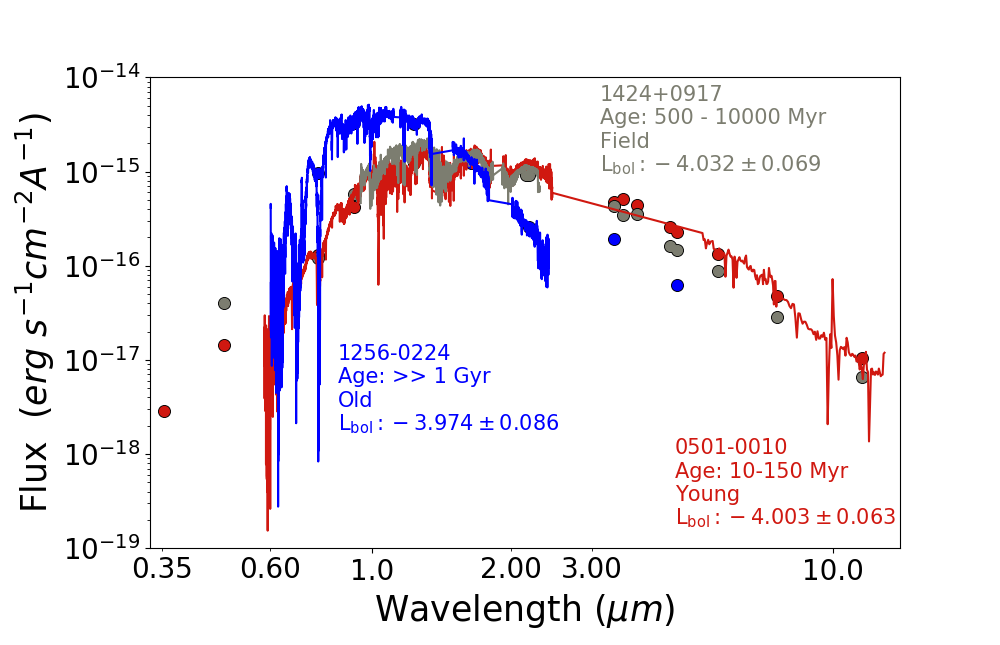
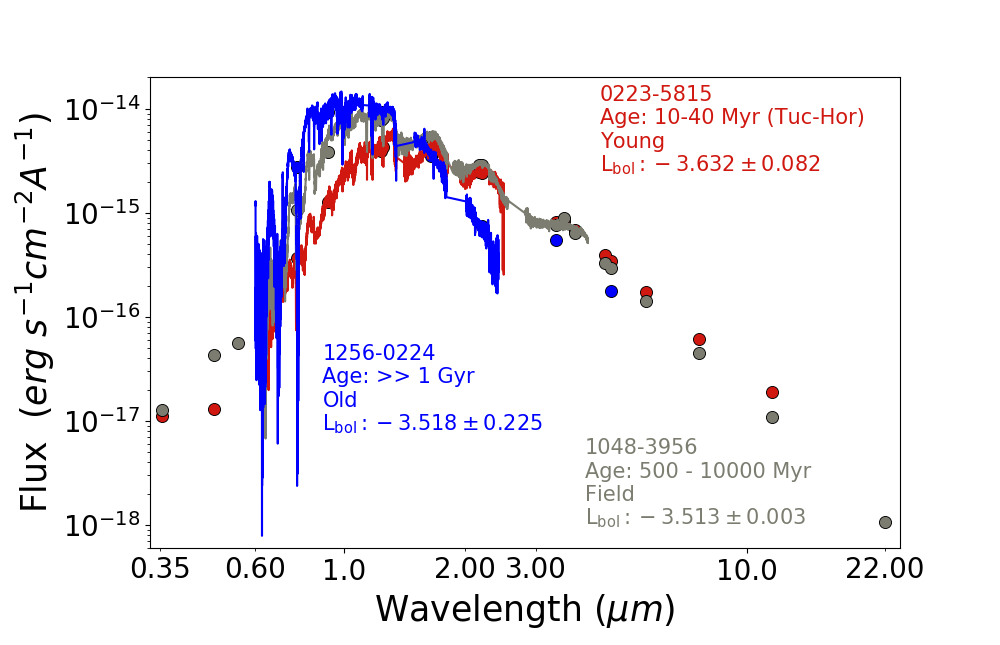
New comparison SEDs with updated teff and lbol

diff --git a/compariosn_Lbol.py b/compariosn_Lbol.py
@@ -7,16 +7,16 @@ from matplotlib.ticker import ScalarFormatter
 # ------------------------------------------------------------------------------------
 # Read  all in as pandas Dataframes
 
-df_1256 = pd.read_csv('Data/FIRE_rereduced1256-0224 (L3.5sd) SED.txt', sep=" ", comment='#', header=None,
+df_1256 = pd.read_csv('Data/correctpi1256-0224 (L3.5sd) SED.txt', sep=" ", comment='#', header=None,
                       names=["w", "f", "err"])
-df_1256_phot = pd.read_csv('Data/FIRE_rereduced1256-0224 (L3.5sd) phot.txt', sep=" ", header=1, names=["w", "f", "err"])
+df_1256_phot = pd.read_csv('Data/correctpi1256-0224 (L3.5sd) phot.txt', sep=" ", header=1, names=["w", "f", "err"])
 
 # -------------- Comparison objects of the same Lbol ----------------------------------
-df_young = pd.read_csv('Data/0501-0010 (L4gamma) SED.txt', sep=" ", comment='#', header=None, names=["w", "f", "err"])
-df_young_phot = pd.read_csv('Data/0501-0010 (L4gamma) phot.txt', sep=" ", comment='#', header=None,
+df_young = pd.read_csv('Data/lbol0223-5815 (L0gamma) SED.txt', sep=" ", comment='#', header=None, names=["w", "f", "err"])
+df_young_phot = pd.read_csv('Data/lbol0223-5815 (L0gamma) phot.txt', sep=" ", comment='#', header=None,
                             names=["w", "f", "err"])
-df_field = pd.read_csv('Data/lbol1424+0917 (L4) SED.txt', sep=" ", comment='#', header=None, names=["w", "f", "err"])
-df_field_phot = pd.read_csv('Data/lbol1424+0917 (L4) phot.txt', sep=" ", comment='#', header=None,
+df_field = pd.read_csv('Data/lbol1048-3956 (M9) SED.txt', sep=" ", comment='#', header=None, names=["w", "f", "err"])
+df_field_phot = pd.read_csv('Data/lbol1048-3956 (M9) phot.txt', sep=" ", comment='#', header=None,
                             names=["w", "f", "err"])
 
 
@@ -41,11 +41,11 @@ ax1.scatter(df_1256_phot['w'], df_1256_phot['f'], c='k', s=70)
 ax1.scatter(df_1256_phot['w'], df_1256_phot['f'], c='blue', s=50)
 
 # ----- Set axes limits, reformat ticks -----------
-plt.xlim([0.33, 14])
-plt.ylim([10**(-19), 10**(-14)])
+plt.xlim([0.33, 24])
+plt.ylim([6*10**(-19),2*10**(-14)])
 ax1.xaxis.set_major_formatter(ScalarFormatter())
 ax1.xaxis.set_minor_formatter(ScalarFormatter())
-ax1.xaxis.set_minor_locator(plt.FixedLocator([0.35, 0.6, 2, 3]))
+ax1.xaxis.set_minor_locator(plt.FixedLocator([0.35, 0.6, 2, 3, 22]))
 ax1.tick_params(axis='x', which='major', labelsize=20)
 ax1.tick_params(axis='x', which='minor', labelsize=20)
 plt.yticks(fontsize=20)
@@ -56,21 +56,21 @@ plt.ylabel('Flux  ($erg\ s^{-1} cm^{-2} A^{-1}$)', fontsize=25)
 
 # ------ Labeling Spectra and Photometric points --------
 # Old
-ax1.text(0.25, 0.4, '1256-0224', transform=ax1.transAxes, color='blue', fontsize=15)
-ax1.text(0.25, 0.35, 'Age: >> 1 Gyr', transform=ax1.transAxes, color='blue', fontsize=15)
-ax1.text(0.25, 0.3, 'Old', transform=ax1.transAxes, color='blue', fontsize=15)
-ax1.text(0.25, 0.25, 'L$_\mathrm{bol}:-3.974\pm 0.086$', transform=ax1.transAxes, color='blue', fontsize=15)
+ax1.text(0.23, 0.4, '1256-0224', transform=ax1.transAxes, color='blue', fontsize=15)
+ax1.text(0.23, 0.35, 'Age: >> 1 Gyr', transform=ax1.transAxes, color='blue', fontsize=15)
+ax1.text(0.23, 0.3, 'Old', transform=ax1.transAxes, color='blue', fontsize=15)
+ax1.text(0.23, 0.25, 'L$_\mathrm{bol}:-3.518\pm 0.225$', transform=ax1.transAxes, color='blue', fontsize=15)
 
 # Field
-ax1.text(0.6, 0.95, '1424+0917', transform=ax1.transAxes, color='#7C7D70', fontsize=15)
-ax1.text(0.6, 0.9, 'Age: 500 - 10000 Myr ', transform=ax1.transAxes, color='#7C7D70', fontsize=15)
-ax1.text(0.6, 0.85, 'Field', transform=ax1.transAxes, color='#7C7D70', fontsize=15)
-ax1.text(0.6, 0.8, 'L$_\mathrm{bol}:-4.032\pm0.069 $', transform=ax1.transAxes, color='#7C7D70', fontsize=15)
+ax1.text(0.58, 0.2, '1048-3956', transform=ax1.transAxes, color='#7C7D70', fontsize=15)
+ax1.text(0.58, 0.15, 'Age: 500 - 10000 Myr ', transform=ax1.transAxes, color='#7C7D70', fontsize=15)
+ax1.text(0.58, 0.1, 'Field', transform=ax1.transAxes, color='#7C7D70', fontsize=15)
+ax1.text(0.58, 0.05, 'L$_\mathrm{bol}:-3.513\pm0.003 $', transform=ax1.transAxes, color='#7C7D70', fontsize=15)
 
 # Young
-ax1.text(0.7, 0.2, '0501-0010', transform=ax1.transAxes, color='#D01810', fontsize=15)
-ax1.text(0.7, 0.15, 'Age: 10-150 Myr', transform=ax1.transAxes, color='#D01810', fontsize=15)
-ax1.text(0.7, 0.1, 'Young', transform=ax1.transAxes, color='#D01810', fontsize=15)
-ax1.text(0.7, 0.05, 'L$_\mathrm{bol}:-4.003\pm0.063 $', transform=ax1.transAxes, color='#D01810', fontsize=15)
+ax1.text(0.6, 0.95, '0223-5815', transform=ax1.transAxes, color='#D01810', fontsize=15)
+ax1.text(0.6, 0.9, 'Age: 10-40 Myr (Tuc-Hor)', transform=ax1.transAxes, color='#D01810', fontsize=15)
+ax1.text(0.6, 0.85, 'Young', transform=ax1.transAxes, color='#D01810', fontsize=15)
+ax1.text(0.6, 0.8, 'L$_\mathrm{bol}:-3.632\pm0.082 $', transform=ax1.transAxes, color='#D01810', fontsize=15)
 
 plt.savefig('Plots/comparison_Lbol.png')

diff --git a/comparison_Teff.py b/comparison_Teff.py
@@ -7,17 +7,17 @@ from matplotlib.ticker import ScalarFormatter
 # ------------------------------------------------------------------------------------
 # Read  all in as pandas dataframes
 
-df_1256 = pd.read_csv('Data/FIRE_rereduced1256-0224 (L3.5sd) SED.txt', sep=" ", comment='#', header=None,
+df_1256 = pd.read_csv('Data/correctpi1256-0224 (L3.5sd) SED.txt', sep=" ", comment='#', header=None,
                       names=["w", "f", "err"])
-df_1256_phot = pd.read_csv('Data/FIRE_rereduced1256-0224 (L3.5sd) phot.txt', sep=" ", header=1, names=["w", "f", "err"])
+df_1256_phot = pd.read_csv('Data/correctpi1256-0224 (L3.5sd) phot.txt', sep=" ", header=1, names=["w", "f", "err"])
 
 # -------------- Comparison objects of the same Teff ----------------------------------
-df_young = pd.read_csv('Data/teff0223-5815 (L0gamma) SED.txt', sep=" ", comment='#', header=None,
+df_young = pd.read_csv('Data/teff2000-7523 (M9gamma) SED.txt', sep=" ", comment='#', header=None,
                        names=["w", "f", "err"])
-df_young_phot = pd.read_csv('Data/teff0223-5815 (L0gamma) phot.txt', sep=" ", comment='#', header=None,
+df_young_phot = pd.read_csv('Data/teff2000-7523 (M9gamma) phot.txt', sep=" ", comment='#', header=None,
                             names=["w", "f", "err"])
-df_field = pd.read_csv('Data/0036+1821 (L3.5) SED.txt', sep=" ", comment='#', header=None, names=["w", "f", "err"])
-df_field_phot = pd.read_csv('Data/0036+1821 (L3.5) phot.txt', sep=" ", comment='#', header=None,
+df_field = pd.read_csv('Data/teff0024-0158 (M9.5) SED.txt', sep=" ", comment='#', header=None, names=["w", "f", "err"])
+df_field_phot = pd.read_csv('Data/teff0024-0158 (M9.5) phot.txt', sep=" ", comment='#', header=None,
                             names=["w", "f", "err"])
 
 
@@ -42,11 +42,11 @@ ax1.scatter(df_1256_phot['w'], df_1256_phot['f'], c='k', s=70)
 ax1.scatter(df_1256_phot['w'], df_1256_phot['f'], c='blue', s=50)
 
 # ----- Set axes limits, reformat ticks -----------
-plt.xlim([0.33, 36])
-plt.ylim([6*10**(-20), 1.2*10**(-14)])
+plt.xlim([0.33, 16])
+plt.ylim([6*10**(-19), 4*10**(-14)])
 ax1.xaxis.set_major_formatter(ScalarFormatter())
 ax1.xaxis.set_minor_formatter(ScalarFormatter())
-ax1.xaxis.set_minor_locator(plt.FixedLocator([0.35, 0.6, 2, 3, 34]))
+ax1.xaxis.set_minor_locator(plt.FixedLocator([0.35, 0.6, 2, 3, 16]))
 ax1.tick_params(axis='x', which='major', labelsize=20)
 ax1.tick_params(axis='x', which='minor', labelsize=20)
 plt.yticks(fontsize=20)
@@ -57,21 +57,21 @@ plt.ylabel('Flux  ($erg\ s^{-1} cm^{-2} A^{-1}$)', fontsize=25)
 
 # ------ Labeling Spectra and Photometric points --------
 # Old
-ax1.text(0.2, 0.4, '1256-0224', transform=ax1.transAxes, color='blue', fontsize=15)
-ax1.text(0.2, 0.35, 'Age: >> 1 Gyr', transform=ax1.transAxes, color='blue', fontsize=15)
-ax1.text(0.2, 0.3, 'Old', transform=ax1.transAxes, color='blue', fontsize=15)
-ax1.text(0.2, 0.25, 'T$_\mathrm{eff}:1887\pm 95$ K', transform=ax1.transAxes, color='blue', fontsize=15)
+ax1.text(0.23, 0.4, '1256-0224', transform=ax1.transAxes, color='blue', fontsize=15)
+ax1.text(0.23, 0.35, 'Age: >> 1 Gyr', transform=ax1.transAxes, color='blue', fontsize=15)
+ax1.text(0.23, 0.3, 'Old', transform=ax1.transAxes, color='blue', fontsize=15)
+ax1.text(0.23, 0.25, 'T$_\mathrm{eff}:2344\pm 314$ K', transform=ax1.transAxes, color='blue', fontsize=15)
 
 # Field
-ax1.text(0.54, 0.2, '0036+1821', transform=ax1.transAxes, color='#7C7D70', fontsize=15)
-ax1.text(0.54, 0.15, 'Age: 500 - 10000 Myr ', transform=ax1.transAxes, color='#7C7D70', fontsize=15)
-ax1.text(0.54, 0.1, 'Field', transform=ax1.transAxes, color='#7C7D70', fontsize=15)
-ax1.text(0.54, 0.05, 'T$_\mathrm{eff}:1868\pm 65$ K', transform=ax1.transAxes, color='#7C7D70', fontsize=15)
+ax1.text(0.62, 0.2, '0024-0158', transform=ax1.transAxes, color='#7C7D70', fontsize=15)
+ax1.text(0.62, 0.15, 'Age: 500 - 10000 Myr ', transform=ax1.transAxes, color='#7C7D70', fontsize=15)
+ax1.text(0.62, 0.1, 'Field', transform=ax1.transAxes, color='#7C7D70', fontsize=15)
+ax1.text(0.62, 0.05, 'T$_\mathrm{eff}:2385\pm 77$ K', transform=ax1.transAxes, color='#7C7D70', fontsize=15)
 
 # Young
-ax1.text(0.6, 0.95, '0223-5815', transform=ax1.transAxes, color='#D01810', fontsize=15)
-ax1.text(0.6, 0.9, 'Age: 10 - 40 Myr (Tuc-Hor)', transform=ax1.transAxes, color='#D01810', fontsize=15)
+ax1.text(0.6, 0.95, '2000-7523', transform=ax1.transAxes, color='#D01810', fontsize=15)
+ax1.text(0.6, 0.9, 'Age: 12 - 22 Myr', transform=ax1.transAxes, color='#D01810', fontsize=15)
 ax1.text(0.6, 0.85, 'Young', transform=ax1.transAxes, color='#D01810', fontsize=15)
-ax1.text(0.6, 0.8, 'T$_\mathrm{eff}:1772\pm 91$ K', transform=ax1.transAxes, color='#D01810', fontsize=15)
+ax1.text(0.6, 0.8, 'T$_\mathrm{eff}:2365\pm 74$ K', transform=ax1.transAxes, color='#D01810', fontsize=15)
 
 plt.savefig('Plots/comparison_Teff.png')
